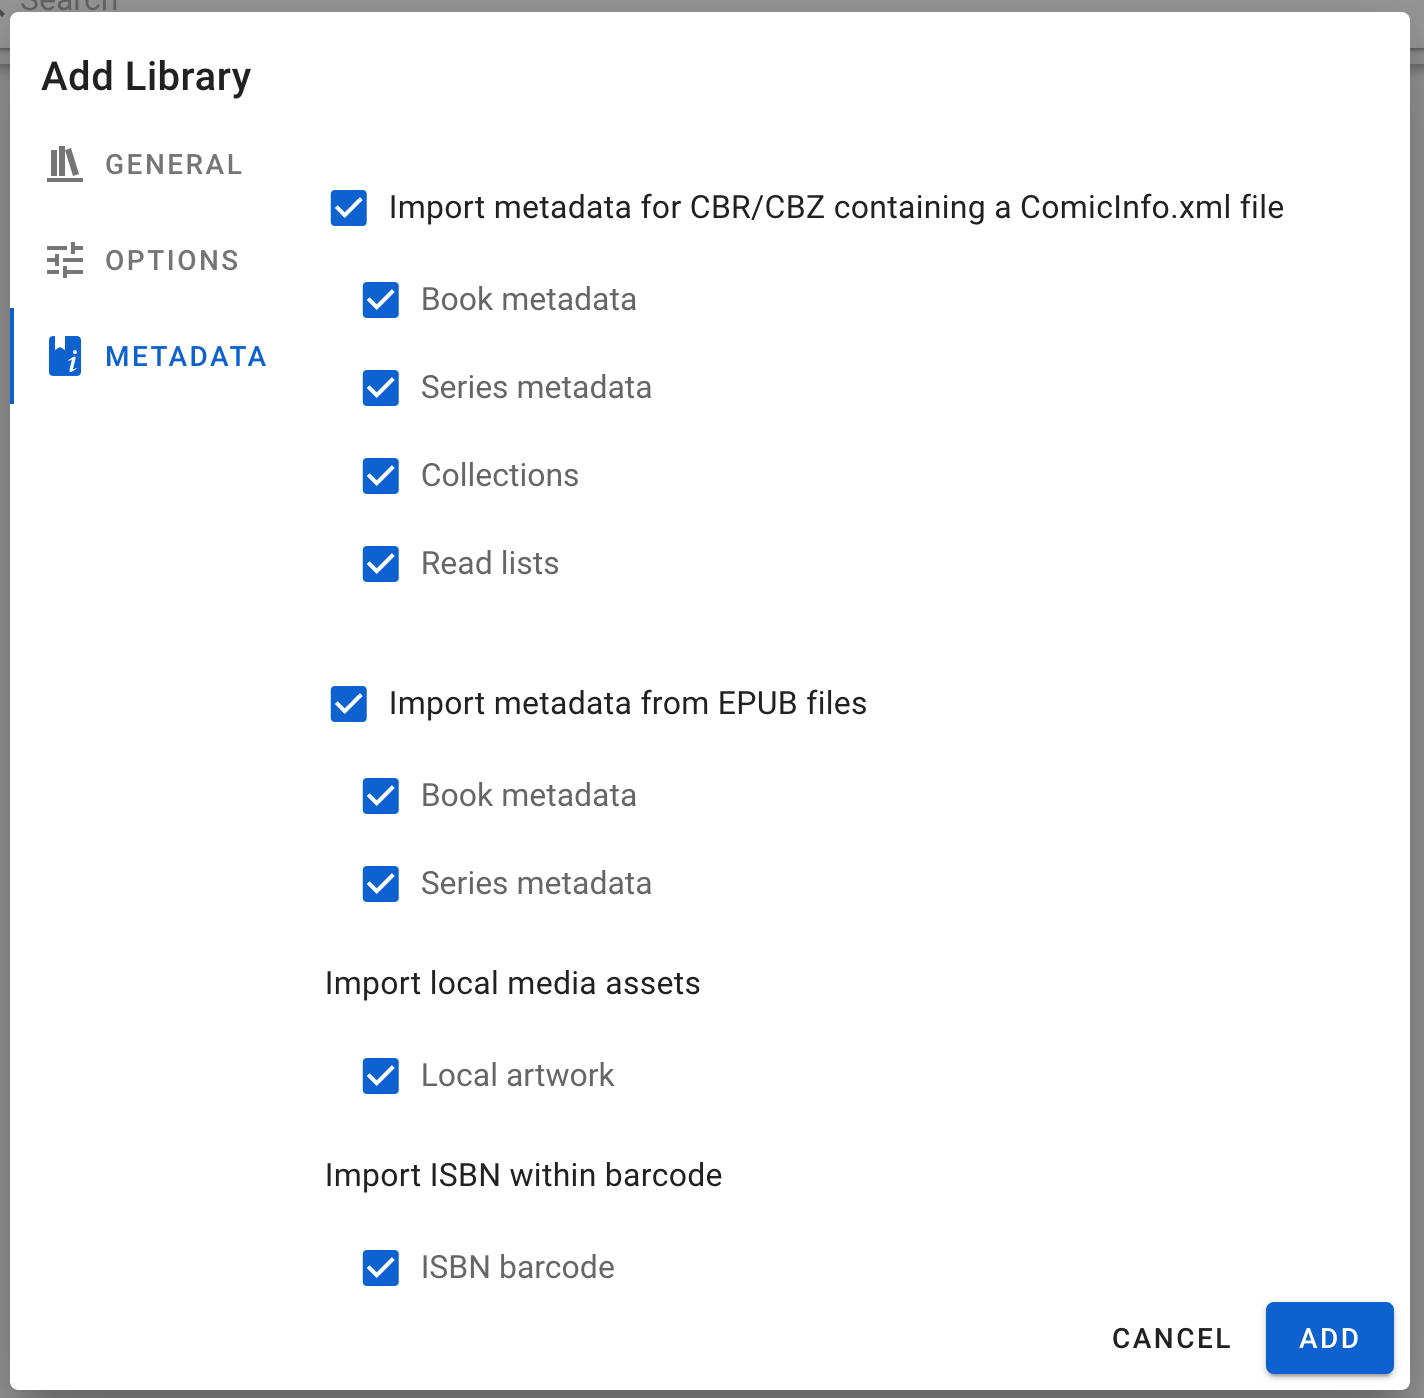
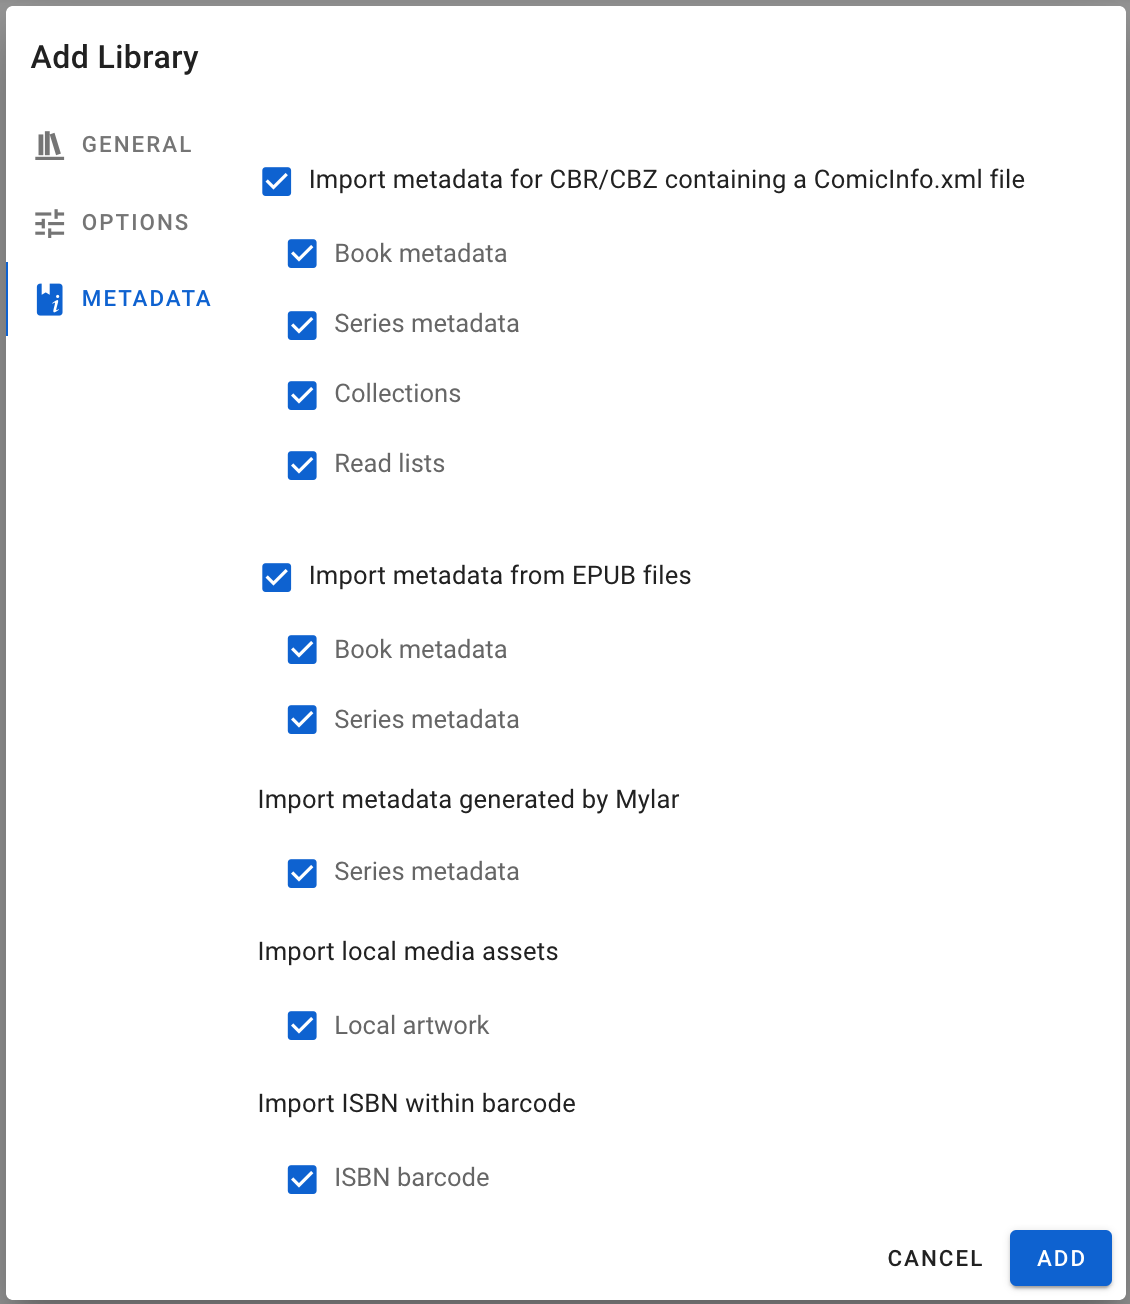
docs: import metadata from Mylar

diff --git a/src/guides/scan-analysis-refresh.md b/src/guides/scan-analysis-refresh.md
@@ -130,6 +130,15 @@ The `belongs-to-collection` meta property will be used to overwirte the title of
 - at least one book in the series has the property `belongs-to-collection` set
 - if multiple books have the property `belongs-to-collection` set, the most frequent value will be used
 
+### Import metadata generated by Mylar  <Badge text="0.108.0+" />
+
+[Mylar](https://github.com/mylar3/mylar3) can generate a `series.json` file inside your Series folders. This option will import the following fields into Komga:
+- The `name` field will be used for the Series title. If the `volume` field is set and is different from `1`, then the `year` field will be appended to the title, in the form `<name> (<year>)`.
+- `status` will be used to set the Series status
+- `description_formatted` or `description_text` will be used for the Series summary
+- `publisher` will be used for the Series publisher
+- `age_rating` will be used for the Series age rating
+
 ### Import local media assets <Badge text="0.56.0+" />
 
 #### Local artwork

diff --git a/src/guides/libraries.md b/src/guides/libraries.md
@@ -21,7 +21,7 @@ You can also specify extra options.
 <img src="/assets/media/guides/libraries/library-add-options.png" style="vertical-align: middle; max-height: 350px" alt="Add Library Dialog Options"/>
 <br/>
 <br/>
-<img src="/assets/media/guides/libraries/library-add-metadata.png" style="vertical-align: middle; max-height: 500px" alt="Add Library Dialog Metadata"/>
+<img src="/assets/media/guides/libraries/library-add-metadata.png" style="vertical-align: middle; max-height: 600px" alt="Add Library Dialog Metadata"/>
 
 ### Scanner options
 
